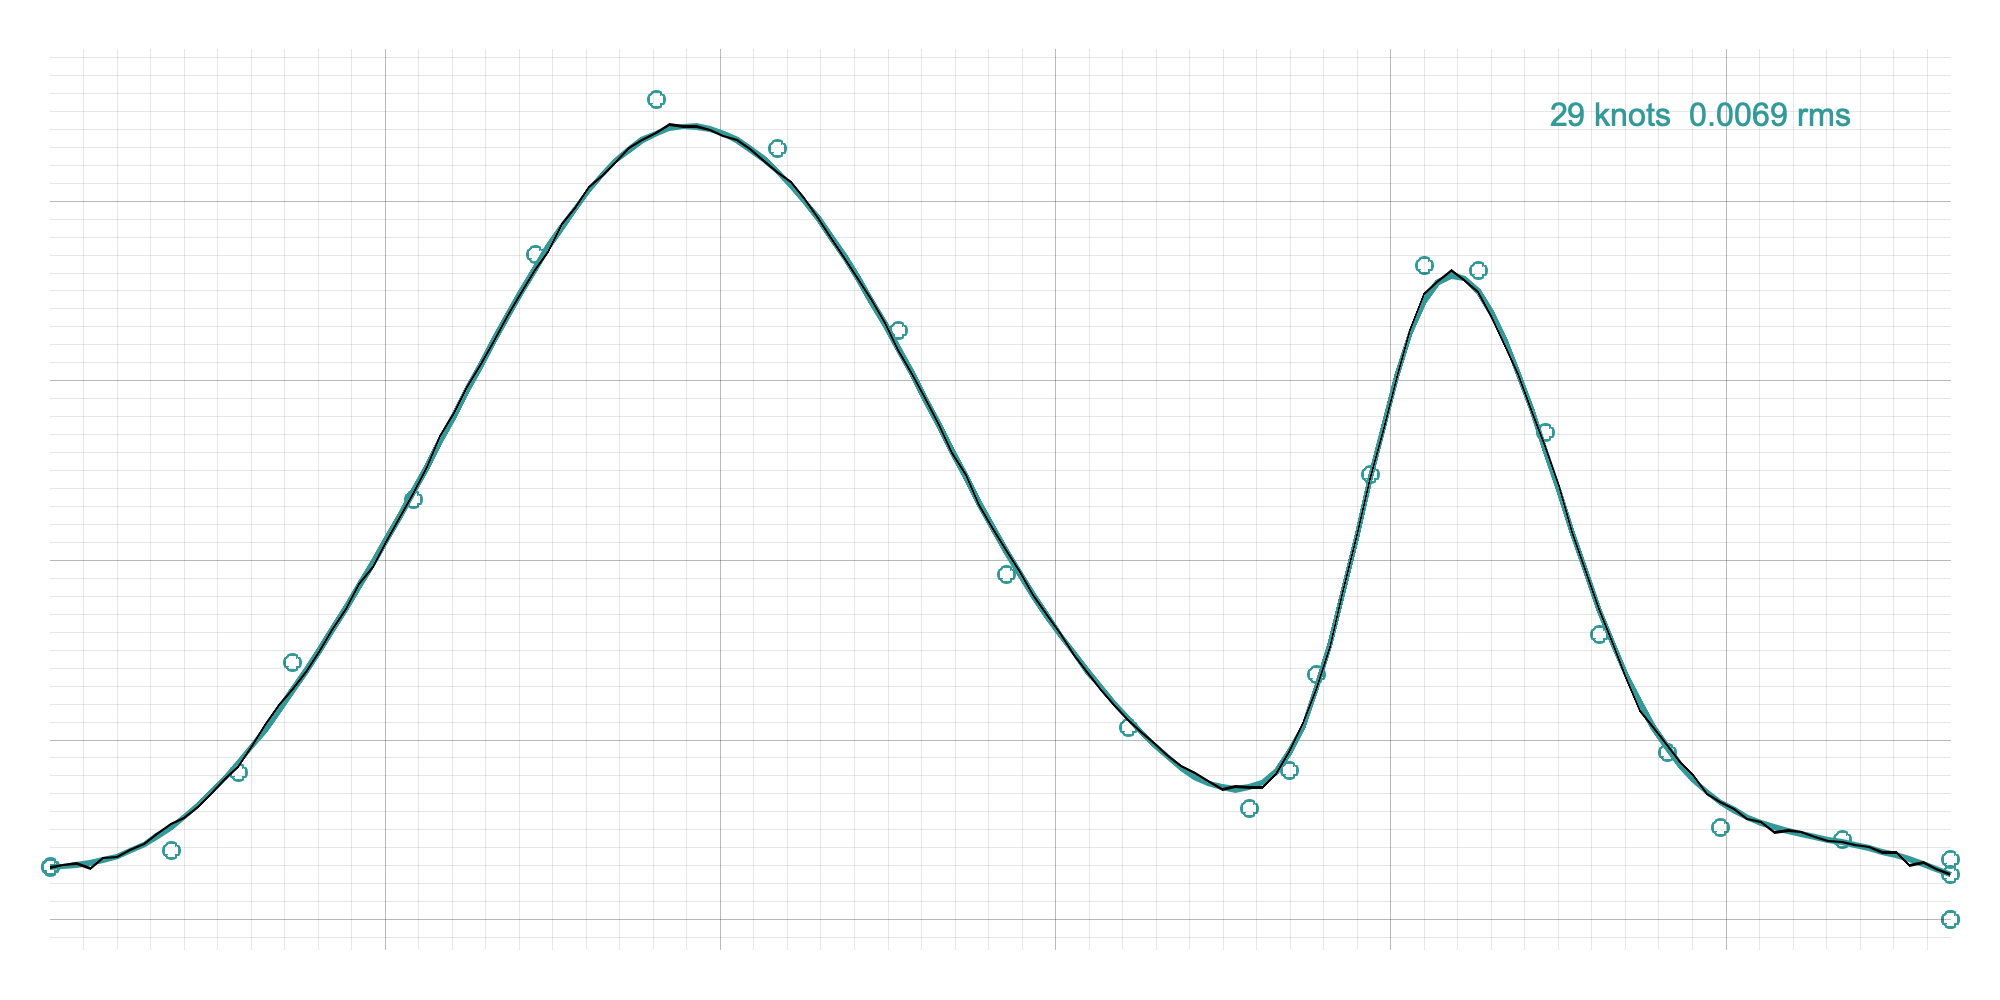
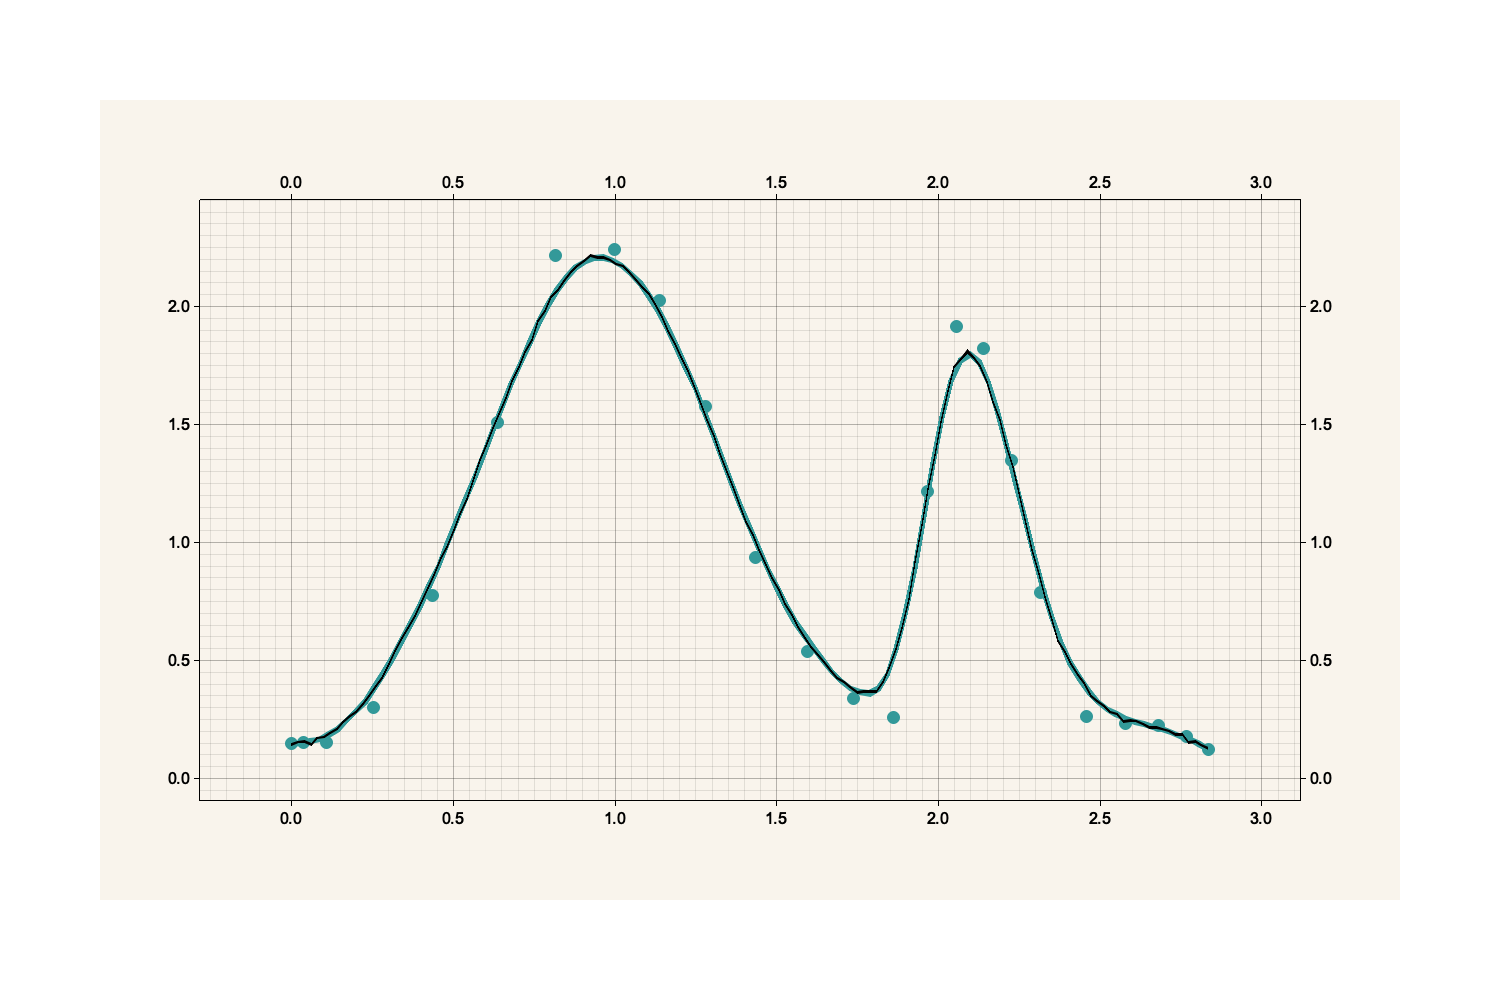
Commented out Spline and Plot parts

Changed region(s): [[0.092, 0.093, 0.9813, 0.93], [0.7667, 0.093, 0.9507, 0.124], [0.0307, 0.806, 0.092, 0.868]]

diff --git a/src/curfit.rs b/src/curfit.rs
@@ -1,14 +1,11 @@
 use std::iter::repeat;
 use dierckx_sys::{curfit_};
-use super::{Spline, FitError};
+use spliny::SplineCurve;
+use super::{FitError};
 use crate::Result;
 
 
-pub type CubicCurveFit = CurveSplineFit::<3>;
-pub type QuinticCurveFit = CurveSplineFit::<5>;
-
-
-pub struct CurveSplineFit<const K:usize> {
+pub struct SplineCurveFit<const K:usize> {
     // input values
     x: Vec<f64>,    // data x coordinates
     y: Vec<f64>,    // data y coordinates
@@ -26,7 +23,7 @@ pub struct CurveSplineFit<const K:usize> {
 }
 
 
-impl<const K:usize> CurveSplineFit<K> {
+impl<const K:usize> SplineCurveFit<K> {
 
     /**
      Constructor, with inputs x and y vectors, and an optional weights vectors.
@@ -77,6 +74,7 @@ impl<const K:usize> CurveSplineFit<K> {
         let mut ierr = 0;
 
         if let Some(knots) = knots {
+            self.n = knots.len() as i32;
             self.t = knots;
         }
         unsafe {
@@ -102,27 +100,32 @@ impl<const K:usize> CurveSplineFit<K> {
      * and aligned to integer multiples of it. Knots cover the range within
      * the bounds of x.
      */
-    pub fn cardinal_spline(mut self, dt:f64) -> Result<Spline<K,1>>{
+    pub fn cardinal_spline(mut self, dt:f64) -> Result<SplineCurve<K,1>>{
         let m = self.x.len();
         let tb = (self.x[0]/dt).ceil() * dt;
         let te = (self.x[m-1]/dt).floor() * dt;
         let n = ((te - tb)/dt).round() as usize;
         if n == 0 { return Err(FitError(205).into())};
-        let n = n + 2; 
-        let t: Vec<f64> = 
-            repeat(tb).take(K)
+
+        let mut t: Vec<f64> = Vec::with_capacity(n + 2 * (K + 1) + 1);
+        t.extend( repeat(tb).take(K+1) // begin padding, needed for spline evaluation
             .chain(
-                repeat(dt).take(n).scan(tb, 
+                repeat(dt).scan(tb, 
                     |s, dx|{
                         let t=*s; 
                         *s+=dx; 
-                        Some(t)
+                        if t<=te {
+                            Some(t)
+                        } else {
+                            None
+                        }
                     })
             )
             .chain(
-                repeat(te).take(K)
+                repeat(te).take(K+1) // end padding
             )
-            .collect();
+        );
+
 
         let ierr = self.curfit(-1, Some(0.0),Some(t));
         if ierr<=0  {
@@ -135,7 +138,7 @@ impl<const K:usize> CurveSplineFit<K> {
     /**
      Interpolating Spline
      */ 
-    pub fn interpolating_spline(mut self) -> Result<Spline<K,1>> {
+    pub fn interpolating_spline(mut self) -> Result<SplineCurve<K,1>> {
         let ierr = self.curfit(0, Some(0.0),None);
         if ierr<=0  {
             Ok(self.into())
@@ -150,7 +153,7 @@ impl<const K:usize> CurveSplineFit<K> {
      * A spline with a minimal number of knots, with error less than the specifed rms value.
      * Repeat fit with smaller rms value using `smooth_more`.
      */
-    pub fn smoothing_spline(mut self, rms: f64) -> Result<Spline<K,1>>{
+    pub fn smoothing_spline(mut self, rms: f64) -> Result<SplineCurve<K,1>>{
         let ierr = self.curfit(0, Some(rms), None);
         if ierr<=0  {
             Ok(self.into())
@@ -159,6 +162,8 @@ impl<const K:usize> CurveSplineFit<K> {
         }
     }
 }
+
+/*
 
 impl<const K:usize> From<CurveSplineFit<K>> for Spline<K,1> {
     fn from(mut sp: CurveSplineFit<K>) -> Self {
@@ -174,3 +179,21 @@ impl<const K:usize> From<CurveSplineFit<K>> for Spline<K,1> {
         )
     }
 }
+*/
+
+impl<const K:usize> From<SplineCurveFit<K>> for SplineCurve<K,1> {
+    fn from(mut sp: SplineCurveFit<K>) -> Self {
+        sp.t.truncate(sp.n as usize); // sp.n number of required knots 
+        sp.t.shrink_to_fit();
+
+        sp.c.truncate(sp.n as usize - (K + 1)); // this is the size as returned, but this conains K+1 unused values at the end
+        sp.c.shrink_to_fit();
+
+        Self::new(
+            sp.t,
+            sp.c,
+
+        )
+    }
+}
+

diff --git a/tests/test_led_curfit.rs b/tests/test_led_curfit.rs
@@ -1,20 +1,19 @@
 
-use splinify::{CubicCurveFit, CurveSplineFit, ParameterCurveSplineFit, Result, read_csv_xy, plot};
+use splinify::{CubicSplineFit, SplineCurveFit, ParameterSplineCurveFit, Result, read_csv_xy};
 
 #[test]
 fn test_smoothing() -> Result<()> {
     let (x,y) =  read_csv_xy("tests/data/leds4000.csv")? ;
 
-    let d = CurveSplineFit::<3>::new(x.clone(), y.clone());
+    let d = SplineCurveFit::<3>::new(x.clone(), y.clone());
     let d = d.smoothing_spline(0.01)?;
     println!("knots {:?}", d.t);
     println!("number of knots: {}", d.t.len());
-    println!("fp: {:?}", d.e);
 
     let json = serde_json::to_string_pretty(&d)?;
     println!("{}", json);
 
-//    plot("tests/img/curfit-smooth.png",x,y,d)?;
+    d.plot("tests/img/curfit-smooth.png",(1600,800))?;
 
 
     Ok(())
@@ -25,11 +24,11 @@ fn test_cardinal() -> Result<()> {
 
     let (x,y) =  read_csv_xy("tests/data/leds4000.csv")? ;
 
-    let d = CubicCurveFit::new(x.clone(), y.clone());
+    let d = CubicSplineFit::new(x.clone(), y.clone());
     let tc = d.cardinal_spline(10.0)?;
     println!("knots {:?}", tc.t);
     println!("number of knots: {}", tc.t.len());
-    println!("fp: {:?}", tc.e);
+    tc.plot("fit.png", (1600,800))?;
 
     Ok(())
 }
@@ -46,7 +45,7 @@ fn test_interpolating_spline() -> Result<()> {
 
     // ConstrainedSpline test
     let int_spline =
-        ParameterCurveSplineFit::<3,2>::new(x_data, xy_data.clone())?
+        ParameterSplineCurveFit::<3,2>::new(x_data, xy_data.clone())?
             .begin_constraints([ [xy_data[0], xy_data[1]], [0.0, 0.0], [0.0, 0.0]])?
             .end_constraints([ [xy_data[xy_data.len()-2],xy_data[xy_data.len()-1]],  [0.0, 0.0], [0.0, 0.0] ])?
             .interpolating_spline()?;
@@ -64,7 +63,7 @@ fn constrained_cardinal_spline() -> Result<()> {
     let mut xy: Vec<f64> = Vec::new();
     x.iter().zip(y.iter()).for_each(|(x,y)| xy.extend([x,y]));
 
-    let cs = ParameterCurveSplineFit::<5,1>::new(x.clone(), y.clone())?;
+    let cs = ParameterSplineCurveFit::<5,1>::new(x.clone(), y.clone())?;
     let tc = cs
        .begin_constraints([[y[0]],[0.0], [0.0]])?
        .end_constraints([[y[y.len()-1]], [0.0], [0.0]])?

diff --git a/src/lib.rs b/src/lib.rs
@@ -10,8 +10,8 @@ pub use curfit::*;
 pub mod concur;
 pub use concur::*;
 
-pub mod spline;
-pub use spline::*;
+//pub mod spline;
+//pub use spline::*;
 
 pub mod util;
 pub use util::*;
@@ -25,21 +25,21 @@ use std::fmt;
 pub type Result<T> = std::result::Result<T, Box<dyn error::Error>>;
 
 // Single Output Spline Fit
-pub type LinearSplineFit = CurveSplineFit<1>;
-pub type CubicSplineFit = CurveSplineFit<3>;
-pub type QuinticSplineFit = CurveSplineFit<5>;
+pub type LinearSplineFit = SplineCurveFit<1>;
+pub type CubicSplineFit = SplineCurveFit<3>;
+pub type QuinticSplineFit = SplineCurveFit<5>;
 
 
 // Multi-Output Parametrized Curve Fits
-pub type LinearSplineFit1D = ParameterCurveSplineFit<1,1>;
-pub type CubicSplineFit1D = ParameterCurveSplineFit<3,1>;
-pub type QuinticSplineFit1D = ParameterCurveSplineFit<5,1>;
-pub type LinearSplineFit2D = ParameterCurveSplineFit<1,2>;
-pub type CubicSplineFit2D = ParameterCurveSplineFit<3,2>;
-pub type QuinticSplineFit2D = ParameterCurveSplineFit<5,2>;
-pub type LinearSplineFit3D = ParameterCurveSplineFit<1,3>;
-pub type CubicSplineFit3D = ParameterCurveSplineFit<3,3>;
-pub type QuinticSplineFit3D = ParameterCurveSplineFit<5,3>;
+pub type LinearSplineFit1D = ParameterSplineCurveFit<1,1>;
+pub type CubicSplineFit1D = ParameterSplineCurveFit<3,1>;
+pub type QuinticSplineFit1D = ParameterSplineCurveFit<5,1>;
+pub type LinearSplineFit2D = ParameterSplineCurveFit<1,2>;
+pub type CubicSplineFit2D = ParameterSplineCurveFit<3,2>;
+pub type QuinticSplineFit2D = ParameterSplineCurveFit<5,2>;
+pub type LinearSplineFit3D = ParameterSplineCurveFit<1,3>;
+pub type CubicSplineFit3D = ParameterSplineCurveFit<3,3>;
+pub type QuinticSplineFit3D = ParameterSplineCurveFit<5,3>;
 
 #[derive(Debug, Clone)]
 pub struct FitError(i32);

diff --git a/src/concur.rs b/src/concur.rs
@@ -15,12 +15,12 @@
 use std::iter::repeat;
 //use crate::dierckx::{concur_};
 use dierckx_sys::{concur_};
-use super::{Spline, FitError};
+use super::{FitError};
 use crate::Result;
 use spliny::SplineCurve;
 
 
-pub struct ParameterCurveSplineFit<const K:usize, const N:usize> {
+pub struct ParameterSplineCurveFit<const K:usize, const N:usize> {
     // input values
     xn: Vec<f64>, // data (x,y,..) coordinates
     u: Vec<f64>,
@@ -56,7 +56,7 @@ pub struct ParameterCurveSplineFit<const K:usize, const N:usize> {
 
  */
 
-impl<const K:usize, const N:usize> ParameterCurveSplineFit<K, N> {
+impl<const K:usize, const N:usize> ParameterSplineCurveFit<K, N> {
 
     /// Constructor, taking as input cuve parameter, curve coordinates, and end point constraints, and setting up
     /// remaining datastructures and values for `concur`.
@@ -330,6 +330,8 @@ impl<const K:usize, const N:usize> ParameterCurveSplineFit<K, N> {
 } // impl ParametricCurveSplineFit
 
 
+/*
+
 impl<const K:usize, const N:usize> From<ParameterCurveSplineFit<K,N>> for Spline<K,N> {
     fn from(mut sp: ParameterCurveSplineFit<K,N>) -> Self {
         sp.t.truncate(sp.n as usize);
@@ -354,8 +356,11 @@ impl<const K:usize, const N:usize> From<ParameterCurveSplineFit<K,N>> for Spline
         )
     }
 }
-impl<const K:usize, const N:usize> From<ParameterCurveSplineFit<K,N>> for SplineCurve<K,N> {
-    fn from(mut sp: ParameterCurveSplineFit<K,N>) -> Self {
+*/
+
+
+impl<const K:usize, const N:usize> From<ParameterSplineCurveFit<K,N>> for SplineCurve<K,N> {
+    fn from(mut sp: ParameterSplineCurveFit<K,N>) -> Self {
         sp.t.truncate(sp.n as usize);
         sp.t.shrink_to_fit();
 

diff --git a/examples/pezzack/main.rs b/examples/pezzack/main.rs
@@ -1,5 +1,5 @@
 
-use splinify::{ParameterCurveSplineFit, Result, read_csv_xy, plot};
+use splinify::{ParameterSplineCurveFit, Result, read_csv_xy};
 
 
 
@@ -7,18 +7,18 @@ fn main() -> Result<()> {
     std::env::set_current_dir(std::path::Path::new(file!()).parent().unwrap())?;   
 
     let (x,y) =  read_csv_xy("pezzack_noisy.csv")? ;
-    let xy = x.iter().zip(y.iter()).flat_map(|(x,y)|[*x,*y]).collect();
+    let xy: Vec<f64> = x.iter().zip(y.iter()).flat_map(|(&x,&y)|[x,y]).collect();
 
     let d = 
-    ParameterCurveSplineFit::<5,1>::new(x.clone(), y.clone())?
-        .begin_constraints([ [y[0]] ])?
-        .end_constraints([ [y[y.len()-1]] ])?
+    ParameterSplineCurveFit::<5,2>::new(x.clone(), xy.clone())?
+       // .begin_constraints([ [y[0]] ])?
+       // .end_constraints([ [y[y.len()-1]] ])?
         .smoothing_spline_optimize(0.1, 0.8,  |k,_,_,_| k>40, None)?;
 
     let json = serde_json::to_string_pretty(&d)?;
     println!("{}", json);
 
-    d.plot_with_control_points_and_data("fit.png", (1500,1000), xy)?;
+    d.plot_with_control_points_and_data("fit.png", (1500,1000), &xy)?;
 
     Ok(())
 }

diff --git a/examples/bb-locus/main.rs b/examples/bb-locus/main.rs
@@ -1,5 +1,5 @@
 
-use splinify::{ParameterCurveSplineFit, Result, read_csv_uxy};
+use splinify::{ParameterSplineCurveFit, Result, read_csv_uxy};
 
 fn main() -> Result<()> {
 
@@ -10,14 +10,14 @@ fn main() -> Result<()> {
     x.iter().zip(y.iter()).for_each(|(&x,&y)|{xy.push(x); xy.push(y);});
 
     let d = 
-        ParameterCurveSplineFit::<3,2>
+        ParameterSplineCurveFit::<3,2>
             ::new(u.clone(), xy.clone())?
             .smoothing_spline(1E-5)?;
 
     let json = serde_json::to_string_pretty(&d)?;
     println!("{}", json);
 
-    d.plot("fit.png", (2000,1000), &u, Some(&xy))?;
+    d.plot("fit.png", (2000,1000))?;
 
     Ok(())
 }

diff --git a/src/util.rs b/src/util.rs
@@ -1,8 +1,9 @@
-use super::{Result, Spline};
+use super::{Result, /*Spline*/};
 use csv::ReaderBuilder;
-use plotters::prelude::*;
-use bitflags::bitflags;
+//use plotters::prelude::*;
+//use bitflags::bitflags;
 
+/*
 pub fn plot<const K: usize>(
     filepath: &str,
     x: Vec<f64>,
@@ -170,6 +171,7 @@ pub fn plot2d<const K: usize, const N: usize>(
     chartarea.present()?;
     Ok(())
 }
+*/
 
 pub fn read_csv_xy(csv_file: &str) -> Result<(Vec<f64>, Vec<f64>)> {
     let mut rdr = csv::Reader::from_path(csv_file)?;
